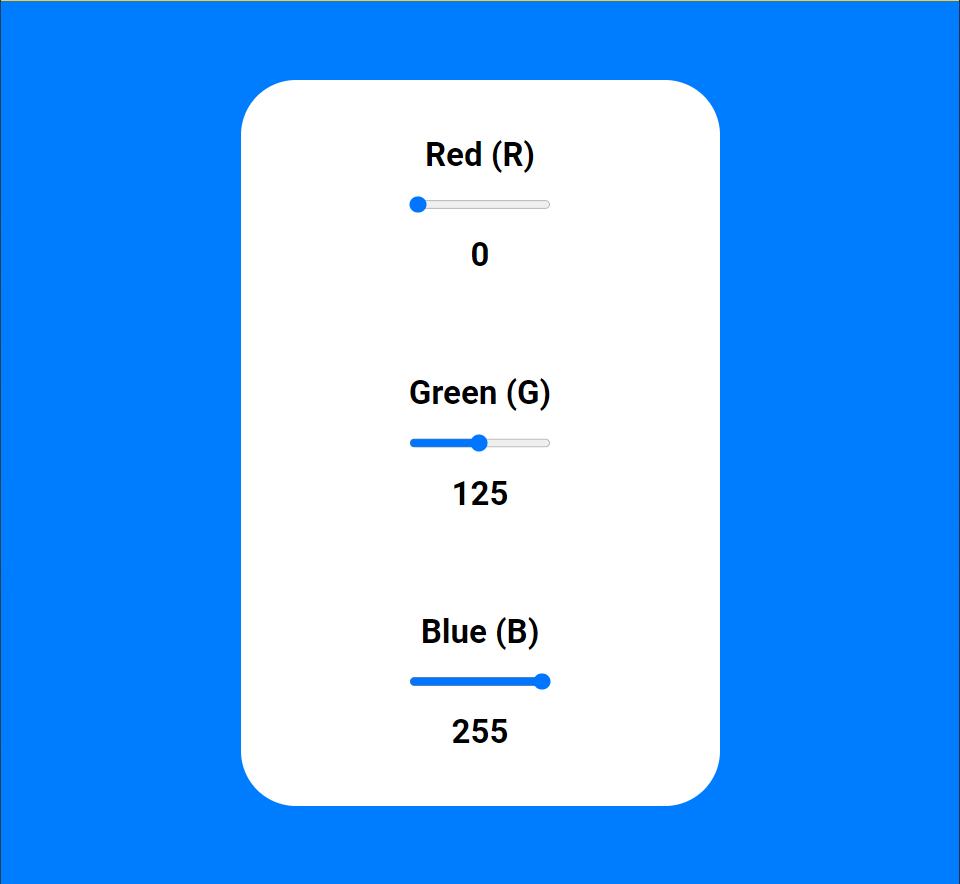
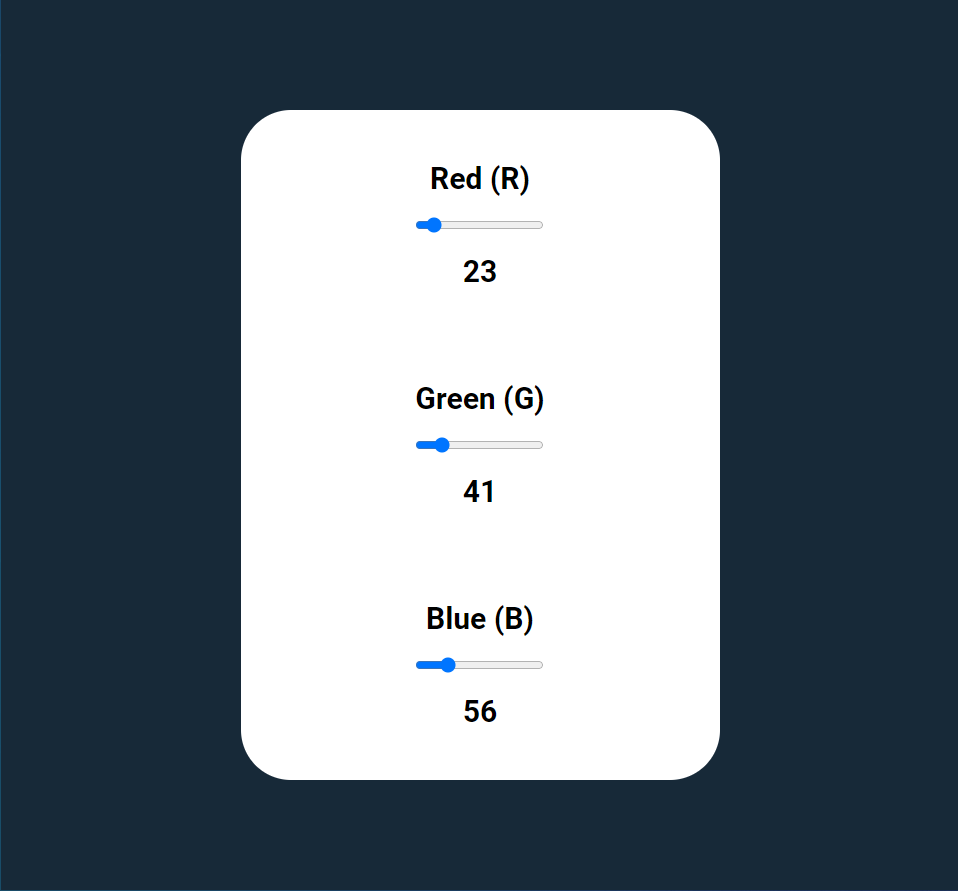
-dark theme color scheme changed

diff --git a/index.html b/index.html
@@ -9,22 +9,22 @@
     <title>Javascript course</title>
 </head>
 <body class="background">
-    <header>
+    <header class="headerFooter">
         <a href="../../index.html">
-        <h1>Javascript
-            <p>by Federico Deniard</p>
+        <h1 class="cardTitle">Javascript
+            <p class="cardTitle">by Federico Deniard</p>
         </h1>
         </a>
     </header>
         <dark-theme></dark-theme>
     </header>
     <article>
-        <h3>Projects</h3>
+        <h3 class="cardTitle">Projects</h3>
         <section class="portfolio">
             <a class="card Chordoku even" id="even" href="https://chord-doku.vercel.app/" target="_blank">
-                <h5>Chordoku</h5>
+                <h5 class="cardTitle">Chordoku</h5>
                 <img class="image" src="./assets/chordoku.png">
-                <p class="evenText">Key contributions:
+                <p class="text">Key contributions:
                     Implementation of responsive design, flexbox, and grid layouts in React for Chordoku's user interface.
                     Proactive bug identification and resolution, active participation in code reviews, and adherence to Scrum methodologies.
                     Efficient workflow management using Git and GitHub, applying Git Flow for collaborative development.
@@ -36,28 +36,28 @@
                 <p>Lorem ipsum dolor sit amet, consectetur adipisicing elit. Inventore consectetur fugiat commodi, at quaerat labore explicabo ad necessitatibus aliquam! Consequuntur adipisci quos deserunt, provident expedita temporibus doloremque saepe omnis ex.</p>
             </a> -->
             <a class="card random-color odd" id="odd" href="./pages/random-color/index.html" target="_blank">
-                <h5>Random Color</h5>
+                <h5 class="cardTitle">Random Color</h5>
                 <img class="image" src="./assets/randomColor.png">
-                <p>Random Color is a button that generates a random hexadecimal color for the user.</p>
+                <p class="text">Random Color is a button that generates a random hexadecimal color for the user.</p>
             </a>
             <a class="card fede even" id="even" href="https://federicodeniard.github.io/practice-page/" target="_blank">
-                <h5>My page</h5>
-                <img src="./assets/me.jpeg">
-                <p class="evenText">This is my first project—I've built a website to share my music and musical experiences. I primarily used HTML and CSS, and later incorporated JavaScript to create components such as the header and footer.</p>
+                <h5 class="cardTitle">My page</h5>
+                <img class="image" src="./assets/me.jpeg">
+                <p class="text">This is my first project—I've built a website to share my music and musical experiences. I primarily used HTML and CSS, and later incorporated JavaScript to create components such as the header and footer.</p>
             </a>
             <a class="card select-color odd" id="odd" href="./pages/select-color/index.html" target="_blank">
-                <h5>Color selector</h5>
+                <h5 class="cardTitle">RGB selector</h5>
                 <img class="image" src="./assets/colorSelector.png">
-                <p>Color selector is a selector of red(r), green(g) and blue(b) values to pick a rgb color</p>
+                <p class="text">RGB selector is a selector of red(r), green(g) and blue(b) values to pick a rgb color</p>
             </a>
         </section>
     </article>
-    <footer>
-        <a class="linkedin" href="https://www.linkedin.com/in/federicodeniard/" target="_blank">
+    <footer class="headerFooter">
+        <a class="linkedin cardTitle svg" href="https://www.linkedin.com/in/federicodeniard/" target="_blank">
             <img src="./assets/linkedin.svg">
             LinkedIn
         </a>
-        <a class="github" href="https://github.com/FedericoDeniard" target="_blank">
+        <a class="github cardTitle svg" href="https://github.com/FedericoDeniard" target="_blank">
             <img src="./assets/github.svg">
             GitHub
         </a>

diff --git a/index.js b/index.js
@@ -2,25 +2,35 @@ document.addEventListener('DOMContentLoaded', function() {
     const articleBackground = document.getElementsByClassName('background')[0];
     const evenCards = document.getElementsByClassName ('even');
     const oddCards = document.getElementsByClassName('odd');
-    const evenCardsText = document.getElementsByClassName('evenText')
-    console.log(evenCardsText)
-
+    const cardsText = document.getElementsByClassName('text');
+    const cardsTitle = document.getElementsByClassName('cardTitle');
     const theme = document.getElementById("toggle");
+    const images = document.getElementsByClassName('image');
+    const headerFooter = document.getElementsByClassName('headerFooter');
 
     theme.addEventListener('click', () => {
         const toggleValue = theme.checked;
 
         if (toggleValue) {
-            articleBackground.style.backgroundColor = "#6C6C6C";
+            articleBackground.style.backgroundColor = "#2B2B2B";
             for (let i = 0; i < evenCards.length; i++){
-                evenCards[i].style.backgroundColor = "#795548"
+                evenCards[i].style.backgroundColor = "#171010"
             }
             for (let i = 0; i < oddCards.length; i++){
-                oddCards[i].style.backgroundColor = "#FFD54F"
+                oddCards[i].style.backgroundColor = "#423F3E"
             }
-            for (let i = 0; i < evenCardsText.length; i++){
-                evenCardsText[i].style.color = "#fff"
-                evenCardsText[i].style.textShadow = "1px 1px 2px #000"
+            for (let i = 0; i < cardsText.length; i++){
+                cardsText[i].style.color = "#fff"
+                cardsText[i].style.textShadow = "1px 1px 2px #000"
+            }
+            for (let i = 0; i < cardsTitle.length; i++){
+                cardsTitle[i].style.color = "#CCCCCC ";
+            }
+            for (let i = 0; i < images.length; i++){
+                images[i].style.boxShadow = "5px 5px 10px 2px #2B2B2B"
+            }
+            for (let i = 0; i < headerFooter.length; i++){
+                headerFooter[i].style.backgroundColor = "#362222";
             }
         } else {
             articleBackground.style.backgroundColor = "#fff";
@@ -30,9 +40,18 @@ document.addEventListener('DOMContentLoaded', function() {
             for (let i = 0; i < oddCards.length; i++){
                 oddCards[i].style.backgroundColor = "#FFE4B5"
             }
-            for (let i = 0; i < evenCardsText.length; i++){
-                evenCardsText[i].style.color = "#000"
-                evenCardsText[i].style.textShadow = "1px 1px 2px #fff"
+            for (let i = 0; i < cardsText.length; i++){
+                cardsText[i].style.color = "#000"
+                cardsText[i].style.textShadow = "1px 1px 2px #fff"
+            }
+            for (let i = 0; i < cardsTitle.length; i++){
+                cardsTitle[i].style.color = "#000";
+            }
+                 for (let i = 0; i < images.length; i++){
+                images[i].style.boxShadow = "5px 5px 10px 2px #000"
+            }
+            for (let i = 0; i < headerFooter.length; i++){
+                headerFooter[i].style.backgroundColor = "#ffcd28";
             }
         }
     });

diff --git a/styless.css b/styless.css
@@ -15,6 +15,7 @@ body {
     text-align: center;
 }
 
+
 header {
     width: 100vw;
     height: 7rem;
@@ -98,7 +99,6 @@ article .portfolio a:hover{
 .card:hover h5 {
     font-size: 4.5rem;
     transition: all .3s ease;
-    -webkit-text-stroke: 1px #fff;
 }
 
 .card:hover p{
@@ -115,7 +115,7 @@ article .portfolio a h5{
 
 article .portfolio a img{
     margin: auto;
-    box-shadow: 5px 5px 10px 2px;
+    box-shadow: 5px 5px 10px 2px #000;
     border-radius: 4px;
     height: 300px;
     width: 200px;

diff --git a/pages/random-color/index.html b/pages/random-color/index.html
@@ -3,7 +3,7 @@
 <head>
     <meta charset="UTF-8">
     <meta name="viewport" content="width=device-width, initial-scale=1.0">
-    <link rel="icon" href="./images/pizza.svg" type="image/svg+xml">
+    <link rel="icon" href="../../assets/random.svg" type="image/svg+xml">
     <link rel ="stylesheet" type="text/css" href="../../fonts.css">
     <link rel="stylesheet" type="text/css" href="styless.css">
     <title>Random Color</title>

diff --git a/pages/select-color/index.html b/pages/select-color/index.html
@@ -3,6 +3,7 @@
 <head>
     <meta charset="UTF-8">
     <meta name="viewport" content="width=device-width, initial-scale=1.0">
+    <link rel="icon" href="../../assets/rgb.svg" type="image/svg+xml">
     <link rel ="stylesheet" type="text/css" href="../../fonts.css">
     <link rel="stylesheet" type="text/css" href="styless.css">
     <title>RGB selector</title>
